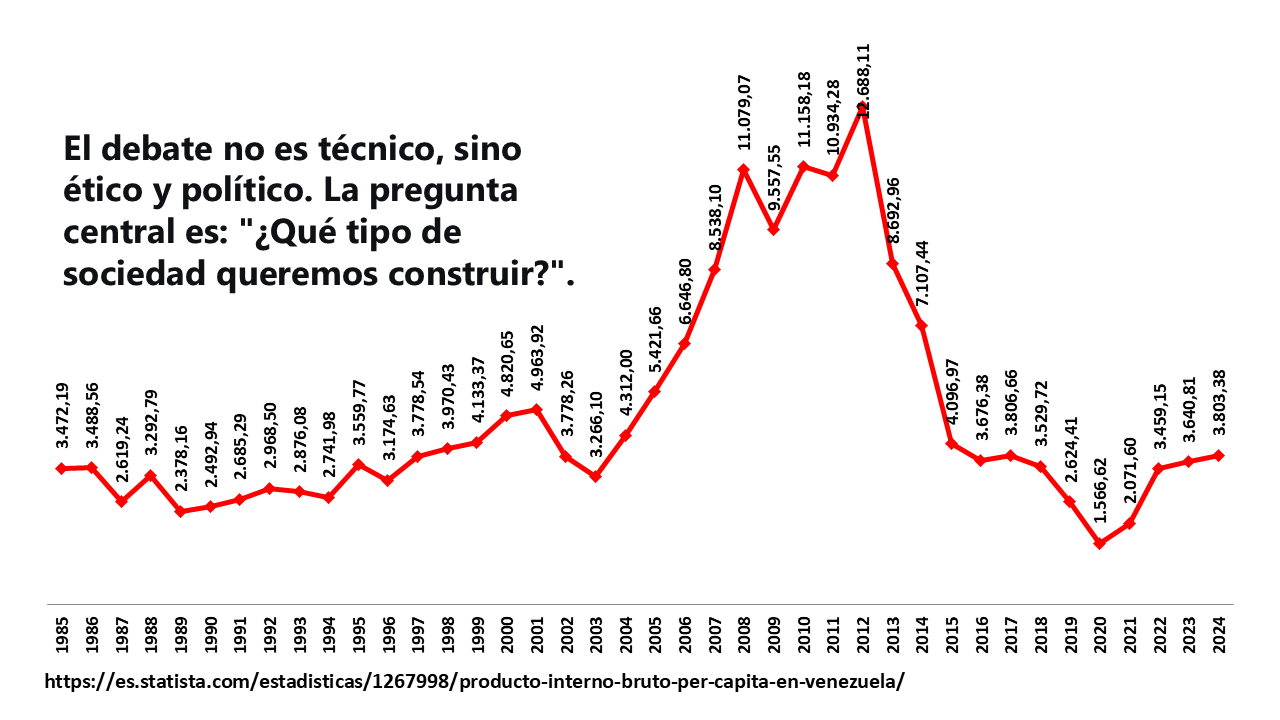
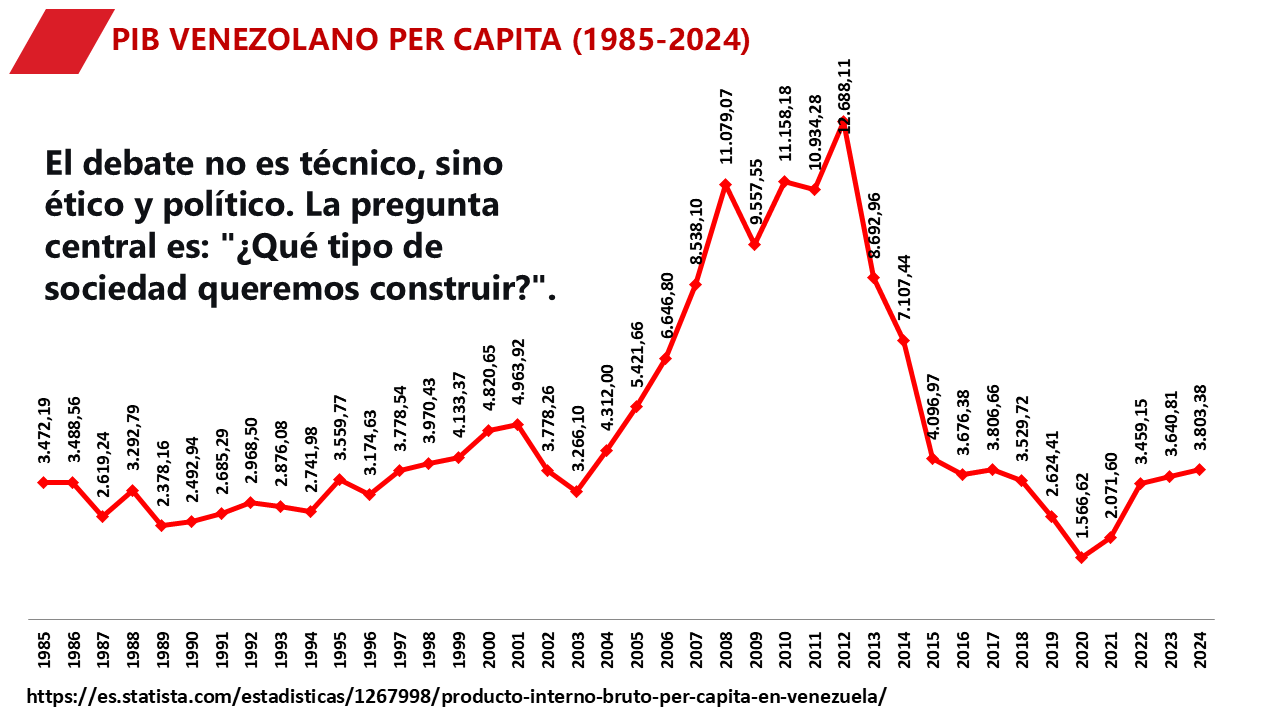
Add files via upload

diff --git a/index.html b/index.html
@@ -10,7 +10,7 @@
     <title>Economía Política Comunal y Sostenibilidad Territorial - PSUV</title>
     <meta name="description" content="Plataforma interactiva del Núcleo Temático 3 (Lara). Aborda la codependencia asimétrica, la estrategia del Punto y Círculo, la Variable Determinante y la defensa del territorio frente al cerco geopolítico.">
     <meta name="keywords" content="Economía Comunal, PSUV, Sostenibilidad Territorial, Revolución Bolivariana, Punto y Círculo, 7T, Venezuela">
-    <meta name="author" content="Ing. Camillo Di Cola / ejavierds">
+    <meta name="author" content="Ing. Camillo Di Cola (04169106275 | camillodicola@gmail.com) / ejavierds">
     <meta name="robots" content="index, follow">
     
     <!-- Favicon (Estrella Roja SVG) -->
@@ -641,7 +641,7 @@
                 Diseño y desarrollo web por <a href="https://linktr.ee/ejavierds" target="_blank" rel="noopener noreferrer" class="text-yellow-500 hover:text-yellow-400 transition-colors font-bold underline decoration-yellow-500/50 underline-offset-4">ejavierds</a>
             </p>
             <p class="text-gray-500 text-xs md:text-sm">
-                Ing. Camillo Di Cola Licencia CC BY-NC-SA 4.0 2026
+                Ing. Camillo Di Cola (04169106275 | camillodicola@gmail.com) Licencia CC BY-NC-SA 4.0 2026
             </p>
         </div>
     </footer>

diff --git a/README.md b/README.md
@@ -74,5 +74,5 @@ Para que el visor y la página funcionen correctamente, los siguientes archivos 
 ## 📄 Créditos y Licencia
 
 *   **Diseño y Desarrollo Web:** [ejavierds](https://linktr.ee/ejavierds)
-*   **Autor Intelectual/Contenido:** Ing. Camillo Di Cola
+*   **Autor Intelectual/Contenido:** Ing. Camillo Di Cola (04169106275 | camillodicola@gmail.com)
 *   **Licencia:** [CC BY-NC-SA 4.0](https://creativecommons.org/licenses/by-nc-sa/4.0/deed.es) (Atribución - NoComercial - CompartirIgual 4.0 Internacional). 2026.
